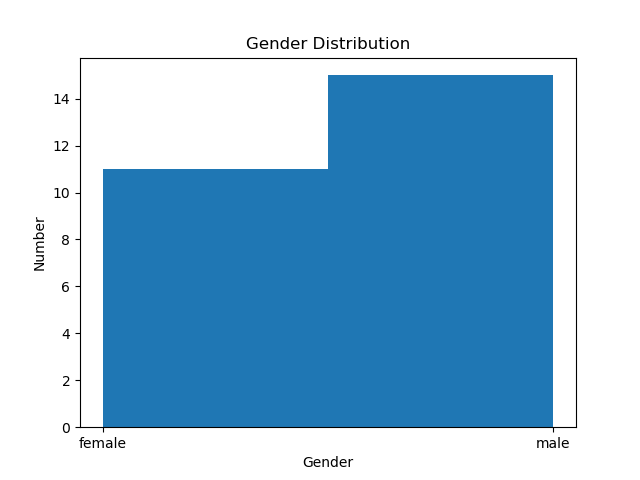
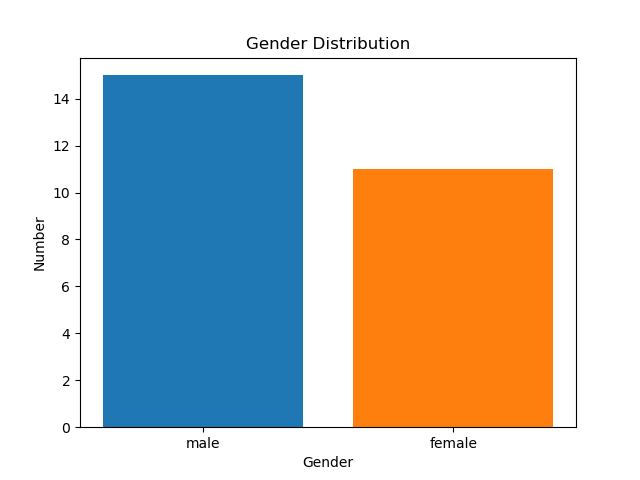
updated age and gender plots

diff --git a/distribution_plots.py b/distribution_plots.py
@@ -35,14 +35,20 @@ def create_distribution(df):
     plt.clf()
 
 
-    plt.hist(df['gender'], bins=2)
+    df_male = df[df['gender'] == 'male']
+    df_female = df[df['gender'] == 'female']
+    plt.bar(['male'],[len(df_male)])
+    plt.bar(['female'],[len(df_female)], color="C1")
     plt.title("Gender Distribution")
     plt.xlabel("Gender")
     plt.ylabel("Number")
     plt.savefig(FIG_DATA_DIRECOTRY + 'gender_distribution.png') 
     plt.clf()
 
-    plt.hist(df['has_injury'], bins=2)
+    df_injury = df[df['has_injury'] == 'true']
+    df_no_injury = df[df['has_injury'] == 'false']
+    plt.bar(['injury'],[len(df_injury)])
+    plt.bar(['no injury'],[len(df_no_injury)], color="C1")
     plt.title("Injury Distribution")
     plt.xlabel("Injury")
     plt.ylabel("Number")
